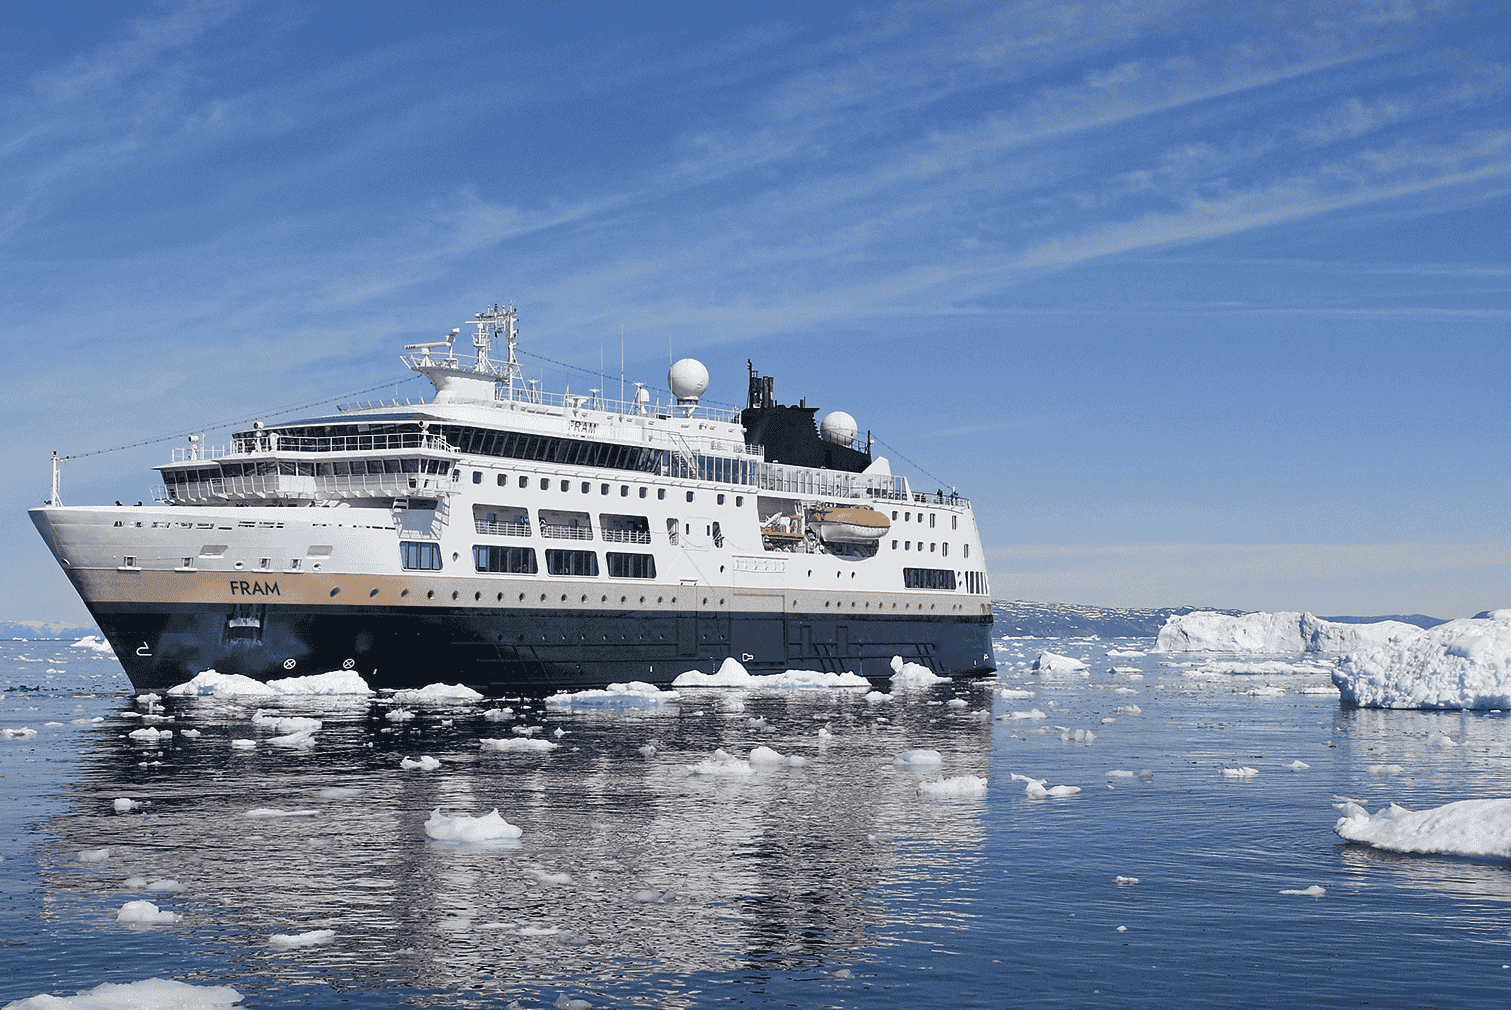
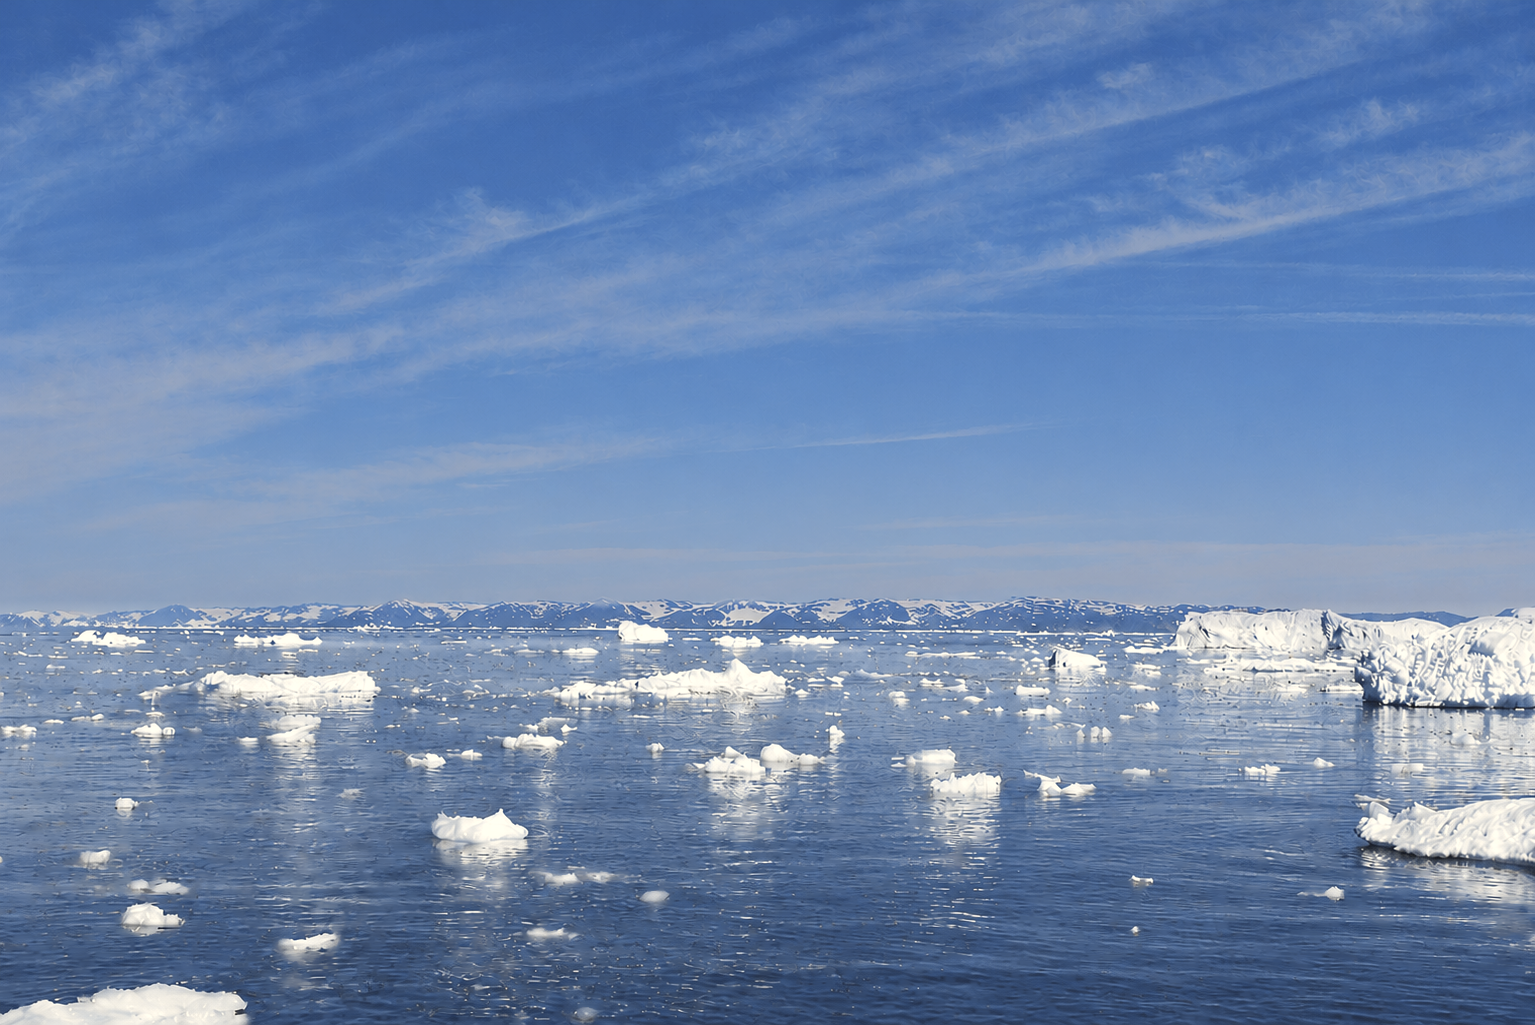
updated login page

diff --git a/src/app/login/login.html b/src/app/login/login.html
@@ -1,5 +1,5 @@
-<div class="full-bg d-flex justify-content-end align-items-center min-vh-100"
-    style="background-image: linear-gradient(rgba(9, 24, 58, 0.48), rgba(21, 90, 126, 0.38)), url('login_bg4.png')">
+<div class="full-bg d-flex justify-content-center align-items-center min-vh-100"
+    style="background-image: url('login_bg4.png')">
     <div class="login-card mx-5 p-4 p-md-5 shadow">
         <div class="text-center mb-4">
             <img src="logo_right.png" alt="Travel Logo" class="login-logo mb-2" width="110" height="65" />
